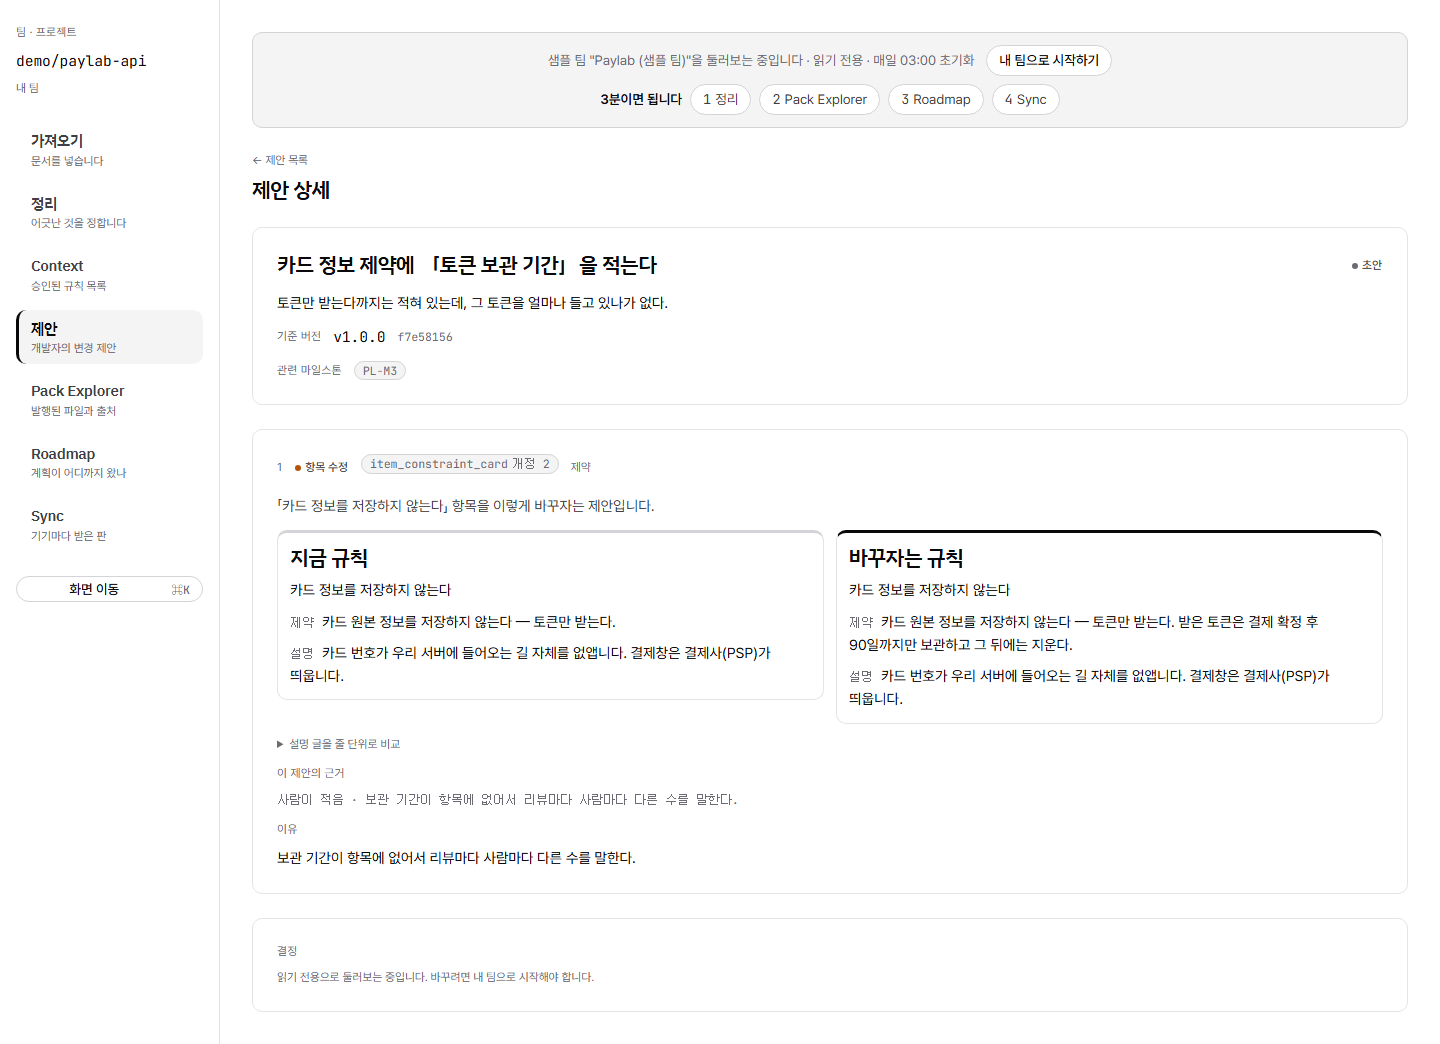
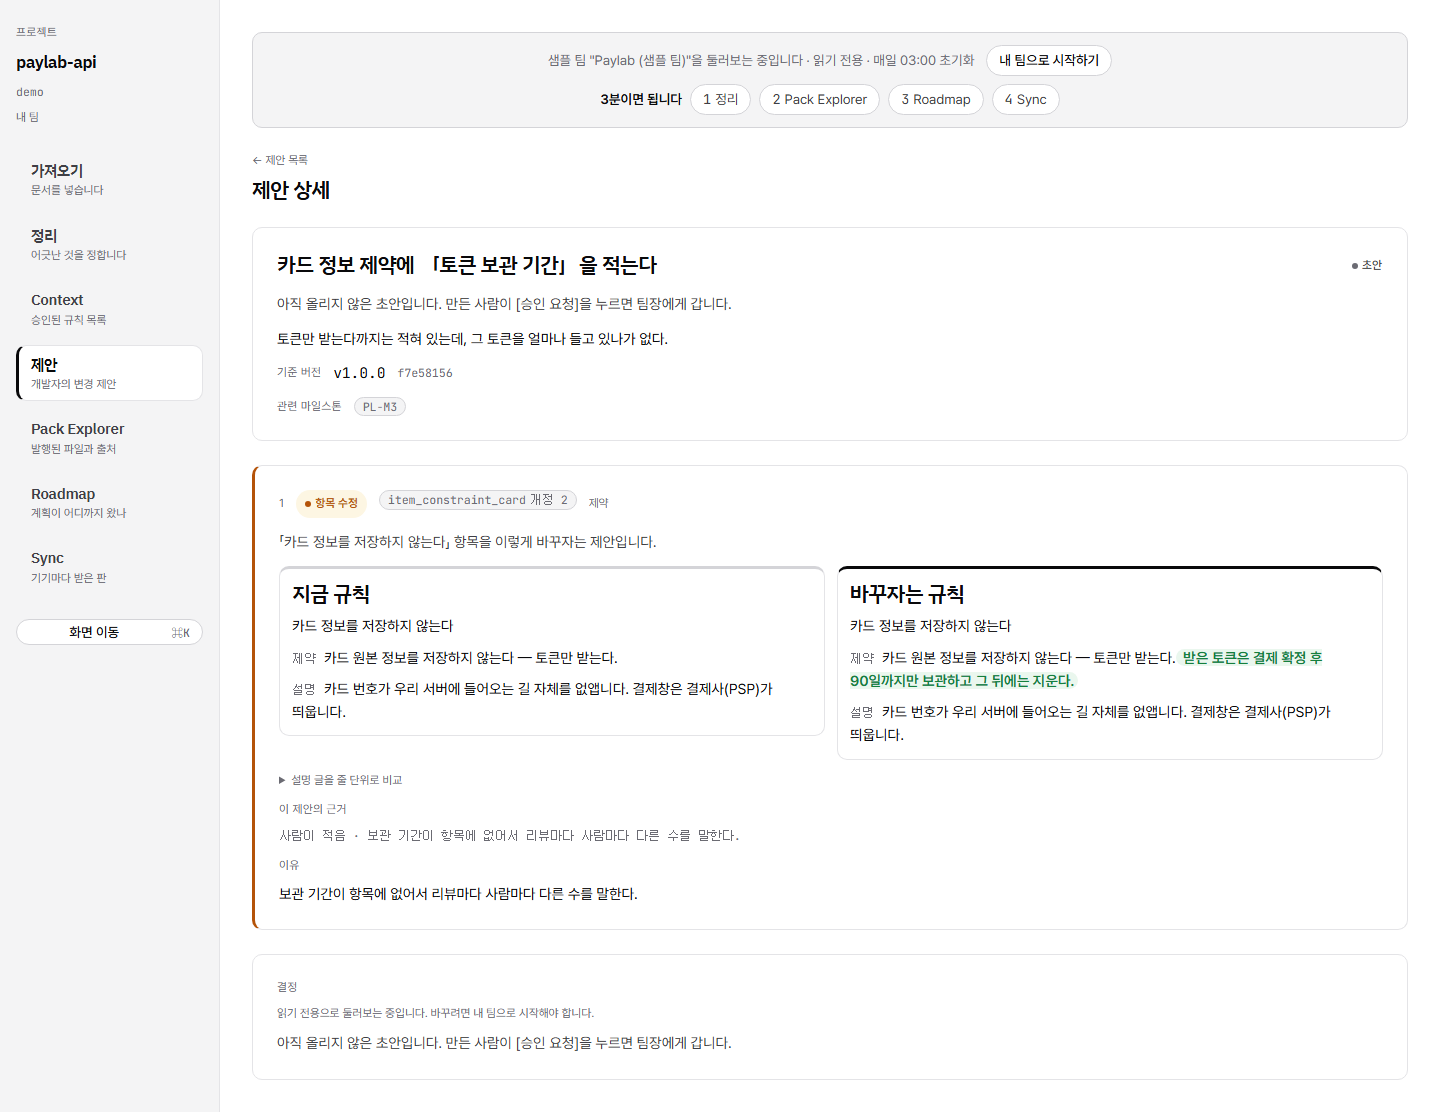
ux(web): 제안 상세 — 바뀐 낱말에 색(wordDiff) · 연산 칩·괘선 · 「이제 무슨 일이 나나」 한 문장(상태 5종)
사용자: 제안 상세를 보며 「아직 이런 화면들도 눈이 확 안 보여서 어떻게 할지 모르겠어」.
- lib/web/diff.ts wordDiff(낱말 단위 LCS · 공백 조각 · 합침) → 「바꾸자는 규칙」 덧붙은 낱말 초록 면 · 「지금 규칙」 빠지는 낱말 줄 긋기 (규칙 문장 + 설명)
- 연산 칩 진하게(.chip-strong.tone-ok/warn/bad) + 항목 카드 왼쪽 괘선(data-op)
- PROPOSAL_STATUS_SENTENCE(5종): 머리 카드 + 결정 칸(초안·승인 대기) — 게스트도 다음 걸음이 보인다
- test/web-diff-words.test.ts · DESIGN_BRIEF ⑫ · STATUS 열여섯째 판

diff --git a/apps/web/src/components/proposals.tsx b/apps/web/src/components/proposals.tsx
@@ -6,7 +6,7 @@ import {
 } from '@contextops/schema'
 
 import type { WriteDoor } from '../lib/web/actor'
-import { diffCounts, lineDiff, type DiffLine } from '../lib/web/diff'
+import { diffCounts, lineDiff, wordDiff, type DiffLine, type WordPiece } from '../lib/web/diff'
 import type { ProposalDetail, ProposalRow, VersionRow } from '../lib/web/queries'
 //  🔴 낱말 `MADE`(「만든」)의 정본은 `lib/web/screens.ts` 다 — 빈 목록 문구(`EMPTY_PLACES`)와
 //     같은 하나를 읽어야 세 자리가 안 갈라진다 (FINDINGS 167). 여기서 다시 적지 마라.
@@ -241,6 +241,8 @@ export function ProposalHead({
         <h2>{proposal.title}</h2>
         <ProposalStatusChip status={proposal.status} />
       </div>
+      {/* 상태를 사람 말 한 문장으로 — 「초안」 칩만으로는 다음에 무슨 일이 나는지 모른다 (2026-09-11). */}
+      <p className="plain-line">{PROPOSAL_STATUS_SENTENCE[proposal.status]}</p>
 
       {proposal.summary === ''
         ? null
@@ -370,6 +372,23 @@ export function DiffView({ before, after }: { before: string; after: string }) {
   )
 }
 
+/**
+ * 낱말 단위 표시 — 「지금 규칙」 판에는 빠지는 낱말을 줄 긋고, 「바꾸자는 규칙」 판에는 덧붙는 낱말에 초록 면을 준다.
+ * 같은 조각(`wordDiff`)을 두 판이 나눠 그린다 — 한쪽에서만 보이는 낱말은 없다.
+ */
+function Marked({ pieces, side }: { pieces: readonly WordPiece[]; side: 'before' | 'after' }) {
+  const hide = side === 'before' ? 'add' : 'del'
+  return (
+    <>
+      {pieces.filter((p) => p.mark !== hide).map((p, i) => (
+        p.mark === 'same'
+          ? <span key={i}>{p.text}</span>
+          : <span key={i} className={p.mark === 'add' ? 'diff-add-text' : 'diff-del-text'}>{p.text}</span>
+      ))}
+    </>
+  )
+}
+
 export function ProposalItemCard({
   item,
   target,
@@ -382,9 +401,13 @@ export function ProposalItemCard({
 }) {
   const sides = diffSidesOf(item, target)
   const draftType = item.draft?.type
+  //  바뀐 낱말만 눈에 띄게 — 두 판이 다 있을 때 규칙 문장·설명을 낱말 단위로 견준다 (`wordDiff`).
+  const gistPieces = target !== undefined && item.draft !== undefined ? wordDiff(itemGist(target), itemGist(item.draft)) : null
+  const bodyPieces = target !== undefined && item.draft !== undefined ? wordDiff(target.body, item.draft.body) : null
 
   return (
-    <section className="card pad col">
+    //  연산은 카드가 스스로 말한다 — 추가 초록 / 수정 주황 / 폐기 빨강 왼쪽 괘선 (`data-op` · globals.css).
+    <section className="card pad col item-card" data-op={item.operation}>
       <div className="row-between wrap">
         <div className="row wrap">
           <span className="label">{index + 1}</span>
@@ -422,8 +445,8 @@ export function ProposalItemCard({
                 <div className="card pad-sm col-tight side-card side-neutral">
                   <span className="side-name side-neutral">지금 규칙</span>
                   <span className="ink">{target.title}</span>
-                  <p className="key-line"><span className="key">{ITEM_GIST_KEY[target.type]}</span>{itemGist(target)}</p>
-                  {target.body === '' ? null : <p className="key-line"><span className="key">설명</span>{target.body}</p>}
+                  <p className="key-line"><span className="key">{ITEM_GIST_KEY[target.type]}</span>{gistPieces ? <Marked pieces={gistPieces} side="before" /> : itemGist(target)}</p>
+                  {target.body === '' ? null : <p className="key-line"><span className="key">설명</span>{bodyPieces ? <Marked pieces={bodyPieces} side="before" /> : target.body}</p>}
                 </div>
               )}
               {item.draft === undefined ? (
@@ -435,8 +458,8 @@ export function ProposalItemCard({
                 <div className="card pad-sm col-tight side-card side-new">
                   <span className="side-name side-new">{target === undefined ? '새로 올리는 규칙' : '바꾸자는 규칙'}</span>
                   <span className="ink">{item.draft.title}</span>
-                  <p className="key-line"><span className="key">{ITEM_GIST_KEY[item.draft.type]}</span>{itemGist(item.draft)}</p>
-                  {item.draft.body === '' ? null : <p className="key-line"><span className="key">설명</span>{item.draft.body}</p>}
+                  <p className="key-line"><span className="key">{ITEM_GIST_KEY[item.draft.type]}</span>{gistPieces ? <Marked pieces={gistPieces} side="after" /> : itemGist(item.draft)}</p>
+                  {item.draft.body === '' ? null : <p className="key-line"><span className="key">설명</span>{bodyPieces ? <Marked pieces={bodyPieces} side="after" /> : item.draft.body}</p>}
                 </div>
               )}
             </div>
@@ -515,6 +538,19 @@ export const DECIDED_TEXT: Record<'approved' | 'rejected' | 'published', string>
   published: '이미 발행된 제안입니다. 팀의 공식 판(Pack)에 들어가 있습니다.',
 }
 
+/**
+ * 상태 5종 전부의 **「이제 무슨 일이 나나」** 한 문장 (2026-09-11 · 사용자: 「눈이 확 안 보여서 어떻게 할지 모르겠어」).
+ * 결정이 끝난 셋은 `DECIDED_TEXT` 그대로고, 앞의 둘은 다음 걸음(누가 무엇을 누르나)을 버튼 이름(`ACTION_LABEL`)으로 말한다.
+ * 머리 카드와 결정 칸이 같은 문장을 읽는다 — `Record` 라 상태가 늘면 타입이 막는다.
+ */
+export const PROPOSAL_STATUS_SENTENCE: Record<ProposalRow['status'], string> = {
+  draft: `아직 올리지 않은 초안입니다. 만든 사람이 [${ACTION_LABEL.submit}]을 누르면 팀장에게 갑니다.`,
+  submitted: `팀장의 결정을 기다립니다. [${ACTION_LABEL.approve}]이면 다음 발행에 들어가고, [${ACTION_LABEL.reject}]이면 사유와 함께 돌아갑니다.`,
+  approved: DECIDED_TEXT.approved,
+  rejected: DECIDED_TEXT.rejected,
+  published: DECIDED_TEXT.published,
+}
+
 /** 누를 것이 없을 때 **왜 없는지**. 빈 칸으로 두면 사람은 화면이 덜 그려졌다고 읽는다. */
 export function noActionText(status: ProposalRow['status'], door?: WriteDoor): string {
   //  🔴 문이 닫힌 주체(게스트)에겐 등급 문장이 전부 거짓이다 — 서버가 낼 문구(`GUEST_HINT`)가 먼저다 (INBOX G13).
@@ -548,6 +584,10 @@ export function ProposalDecisions({
         {/* ⚠ 「할 수 있는 것이 없다」를 빈 칸으로 두지 않는다 — 사람은 화면이 덜
             그려졌다고 읽는다. 왜 없는지가 다음 걸음을 정한다. */}
         <p className="meta">{noActionText(state.status, state.door)}</p>
+        {/* 다음 걸음 — 읽기 전용(게스트)이어도 「여기서 무슨 일이 나는지」는 보여야 한다 (2026-09-11). */}
+        {state.status === 'draft' || state.status === 'submitted'
+          ? <p className="plain-line">{PROPOSAL_STATUS_SENTENCE[state.status]}</p>
+          : null}
       </section>
     )
   }

diff --git a/apps/web/src/app/globals.css b/apps/web/src/app/globals.css
@@ -446,6 +446,14 @@ code, pre, .mono { font-family: var(--font-mono); font-variant-numeric: tabular-
 /* 카드 머리의 사람 말 한 문장 — 두 쪽이 무엇인지 · 무엇을 정해 달라는지. 두 쪽의 이름은 굵고 잉크다. */
 .conflict-plain { font-size: var(--fs-body); color: var(--ink-2); line-height: 1.65; }
 .conflict-plain b { font-weight: 700; color: var(--ink); }
+/* 화면 어디서나 「이제 무슨 일이 나나」 한 문장 (제안 머리·결정 칸). */
+.plain-line { font-size: var(--fs-body); color: var(--ink-2); line-height: 1.65; }
+/* 제안의 항목 카드 — 연산이 왼쪽 괘선으로 (추가 초록 · 수정 주황 · 폐기 빨강). 바뀐 낱말: 덧붙음 = 초록 면, 빠짐 = 줄 긋기 (2026-09-11). */
+.item-card[data-op='add'] { border-left: 3px solid var(--ok); }
+.item-card[data-op='update'] { border-left: 3px solid var(--warn); }
+.item-card[data-op='deprecate'] { border-left: 3px solid var(--bad); }
+.diff-add-text { background: var(--ok-bg); color: var(--ok); font-weight: 600; border-radius: var(--radius); padding: 0 var(--sp-1); }
+.diff-del-text { text-decoration: line-through; color: var(--ink-3); }
 /* 두 쪽의 이름 — 카드 안에서 제일 크다: 표제체 600 (사용자: 「지금 문서 / 옛 문서 이런 걸 좀 강조하는 폰트였으면」 · 2026-09-11). */
 .side-name { font-family: var(--font-display); font-weight: 600; font-size: var(--fs-section); letter-spacing: -0.02em; line-height: 1.25; color: var(--ink); }
 /* 두 쪽의 색 — 사실의 색이다 (2026-09-11 · 「색깔이 다르게 하든지」): 지금 적용 중 = 초록(「적용 중」 칩과 같다) · 옛 문서 = 주황(「옛 버전」 칩과 같다) + 회색 면 · 코드 = 모노.
@@ -470,7 +478,11 @@ code, pre, .mono { font-family: var(--font-mono); font-variant-numeric: tabular-
 .row-name { font-family: var(--font-display); font-weight: 600; font-size: var(--fs-sub); letter-spacing: -0.01em; color: var(--ink); }
 /* 심각도 높음 — 카드 왼쪽에 빨간 괘선, 칩은 옅은 빨강 면 (색 배경이 붙는 유일한 칩). 사용자: 「심각도 높으면 좀 더 눈에 잘 보여야」 (2026-09-10 저녁). */
 .conflict-card[data-severity='high'] { border-left: 3px solid var(--bad); }
-.chip.chip-strong { background: var(--bad-bg); color: var(--bad); padding: var(--sp-1) var(--sp-2); font-weight: 600; }
+.chip.chip-strong { padding: var(--sp-1) var(--sp-2); font-weight: 600; }
+.chip.chip-strong.tone-ok { background: var(--ok-bg); color: var(--ok); }
+.chip.chip-strong.tone-warn { background: var(--warn-bg); color: var(--warn); }
+.chip.chip-strong.tone-bad { background: var(--bad-bg); color: var(--bad); }
+.chip.chip-strong.tone-neutral { background: var(--surface-hi); color: var(--ink); }
 
 /* 3분 코스 — 게스트 배너의 둘째 줄 (`components/demo-banner.tsx` · 정본 `lib/web/tour.ts`).
    걸음 넷이 알약으로 서고, 지금 걸음은 잉크로 채운다. 셋째 줄은 지금 걸음의 「볼 것」 한 문장. */

diff --git a/apps/web/test/web-diff-words.test.ts b/apps/web/test/web-diff-words.test.ts
@@ -1,0 +1,36 @@
+import { PROPOSAL_STATUSES } from '@contextops/schema'
+import { describe, expect, it } from 'vitest'
+
+import { PROPOSAL_STATUS_SENTENCE } from '../src/components/proposals'
+import { wordDiff } from '../src/lib/web/diff'
+
+describe('낱말 단위 diff (2026-09-11)', () => {
+  it('덧붙은 낱말만 add, 빠진 낱말만 del — 공백은 조각으로 남고 같은 표시는 합쳐진다', () => {
+    const pieces = wordDiff('카드 원본 정보를 저장하지 않는다 — 토큰만 받는다.', '카드 원본 정보를 저장하지 않는다 — 토큰만 받는다. 받은 토큰은 90일까지만 보관한다.')
+    expect(pieces.filter((p) => p.mark === 'del')).toEqual([])
+    const added = pieces.filter((p) => p.mark === 'add').map((p) => p.text).join('')
+    expect(added).toBe(' 받은 토큰은 90일까지만 보관한다.')
+    expect(pieces.map((p) => p.text).join('')).toBe('카드 원본 정보를 저장하지 않는다 — 토큰만 받는다. 받은 토큰은 90일까지만 보관한다.')
+  })
+
+  it('같은 문장은 전부 same · 빈 문장은 전부 add/del', () => {
+    expect(wordDiff('같다', '같다')).toEqual([{ mark: 'same', text: '같다' }])
+    expect(wordDiff('', '새 문장')).toEqual([{ mark: 'add', text: '새 문장' }])
+    expect(wordDiff('옛 문장', '')).toEqual([{ mark: 'del', text: '옛 문장' }])
+  })
+
+  it('바뀐 낱말은 del 뒤에 add — 사람이 「무엇이 빠지고 무엇이 들어왔나」로 읽는 차례', () => {
+    const marks = wordDiff('재시도는 3회까지', '재시도는 5회까지').map((p) => p.mark)
+    expect(marks).toEqual(['same', 'del', 'add'])
+  })
+})
+
+describe('제안 상태 5종의 「이제 무슨 일이 나나」 한 문장', () => {
+  it('키가 enum 과 같고 전부 사람 말이다', () => {
+    expect(Object.keys(PROPOSAL_STATUS_SENTENCE).sort()).toEqual([...PROPOSAL_STATUSES].sort())
+    for (const st of PROPOSAL_STATUSES) expect(PROPOSAL_STATUS_SENTENCE[st], st).toMatch(/[가-힣]/)
+    //  올리기 전 둘은 다음 걸음의 버튼 이름을 말한다.
+    expect(PROPOSAL_STATUS_SENTENCE.draft).toContain('[승인 요청]')
+    expect(PROPOSAL_STATUS_SENTENCE.submitted).toContain('[모두 승인]')
+  })
+})

diff --git a/apps/web/src/lib/web/diff.ts b/apps/web/src/lib/web/diff.ts
@@ -93,3 +93,42 @@ export function diffCounts(lines: readonly DiffLine[]): { added: number; removed
   }
   return { added, removed }
 }
+
+// ---------------------------------------------------------------------
+//  낱말 단위 — 한 문장 안에서 **무엇이 덧붙고 무엇이 빠졌나** (2026-09-11 · 사용자: 「눈이 확 안 보여서 어떻게 할지 모르겠어」)
+//
+//  ★ 왜 — 제안 상세의 「지금 규칙 / 바꾸자는 규칙」 두 판은 문장 전체를 나란히 놓는다. 사람은 두 문장을 글자 단위로
+//    비교하지 못한다 — 덧붙은 낱말에 색이 있어야 눈이 거기로 간다. 줄 diff 와 같은 LCS 이고 단위만 낱말이다.
+//  ⚠ 공백도 조각이다 — 지우면 낱말이 붙는다. 같은 표시가 이어지면 하나로 합친다 (렌더가 조각을 덜 만든다).
+// ---------------------------------------------------------------------
+
+export interface WordPiece {
+  readonly mark: DiffMark
+  readonly text: string
+}
+
+function wordsOf(text: string): string[] {
+  return text === '' ? [] : text.split(/(\s+)/).filter((t) => t !== '')
+}
+
+export function wordDiff(before: string, after: string): WordPiece[] {
+  const a = wordsOf(before)
+  const b = wordsOf(after)
+  const table = lcsTable(a, b)
+  const out: WordPiece[] = []
+  const push = (mark: DiffMark, text: string) => {
+    const last = out[out.length - 1]
+    if (last !== undefined && last.mark === mark) out[out.length - 1] = { mark, text: last.text + text }
+    else out.push({ mark, text })
+  }
+  let i = 0
+  let j = 0
+  while (i < a.length && j < b.length) {
+    if (a[i] === b[j]) { push('same', a[i]!); i += 1; j += 1 }
+    else if (table[i + 1]![j]! >= table[i]![j + 1]!) { push('del', a[i]!); i += 1 }
+    else { push('add', b[j]!); j += 1 }
+  }
+  for (; i < a.length; i += 1) push('del', a[i]!)
+  for (; j < b.length; j += 1) push('add', b[j]!)
+  return out
+}

diff --git a/apps/web/src/components/chips.tsx b/apps/web/src/components/chips.tsx
@@ -292,7 +292,8 @@ export function ProposalStatusChip({ status }: { status: ProposalStatus }) {
 }
 
 export function ProposalOperationChip({ operation }: { operation: ProposalOperation }) {
-  return <Chip spec={PROPOSAL_OPERATION_CHIP[operation]} title={operation} />
+  //  진하다 — 항목 카드에서 「무엇을 하자는 것인가」가 제일 먼저 보여야 한다 (2026-09-11 · 「눈이 확 안 보여서」).
+  return <Chip spec={PROPOSAL_OPERATION_CHIP[operation]} title={operation} strong />
 }
 
 /**

diff --git a/docs/DESIGN_BRIEF.md b/docs/DESIGN_BRIEF.md
@@ -237,6 +237,9 @@
 > 「제안 5개 — … 팀장이 볼 것은 승인 대기 1개」 「항목 30개 — 적용 중 27 · 초안 3」 · 숫자 굵게 · 0 은 안 적음 · 낱말은 칩 표) · **볼 것이 있는 행**은 왼쪽 주황 괘선(`tr[data-tone='warn']` — 옛 판·손으로 고침·승인 대기·검토 중)
 > · 마일스톤 카드는 완료 확인 대기 주황 / 완료 초록 + **제목이 id 보다 크다**(`.row-name`) · 완료 조건의 ✓/○ → 색점 + 「근거 있음/없음」 · 제안 상세는 **「지금 규칙 / 바꾸자는 규칙」 두 판**(충돌 카드와 같은 모양 · 한 줄 요약으로 규칙 문장의 변화를 보여 준다 · 줄 diff 는 접어 둠)
 > + 연산별 머리 문장(「…항목을 이렇게 바꾸자는 제안입니다」) · Pack 상세 머리에 세 칸 설명 한 줄.
+> ⑫ (사용자: 제안 상세를 보며 「아직 이런 화면들도 눈이 확 안 보여서 어떻게 할지 모르겠어」 · 2026-09-11) **바뀐 낱말에 색** — 두 판의 규칙 문장·설명을 낱말 단위로 견줘(`wordDiff`)
+> 「바꾸자는 규칙」에는 덧붙은 낱말이 초록 면, 「지금 규칙」에는 빠지는 낱말이 줄 긋기 · 연산 칩은 진하게(추가 초록 / 수정 주황 / 폐기 빨강 면) + 항목 카드 왼쪽 괘선 · 머리 카드와 결정 칸에
+> **「이제 무슨 일이 나나」 한 문장**(`PROPOSAL_STATUS_SENTENCE` — 「아직 올리지 않은 초안입니다. 만든 사람이 [승인 요청]을 누르면 팀장에게 갑니다.」 · 읽기 전용이어도 다음 걸음이 보인다).
 > 그리고 **색** (사용자: 「색깔이 다르게 하든지」) — 사실의 색만: 지금 적용 중 = `ok` 초록(「적용 중」 칩과 같다 · 위 괘선 3px + 이름) · 옛 문서 = `warn` 주황(「옛 버전」 칩과 같다) + 회색 면 · 코드 = 모노 · 나머지 = 잉크. 초록이 「맞는 쪽」을 뜻하지 않는다 — 결정은 사람 몫.
 
 ### 화면 1 — 랜딩 `/`
